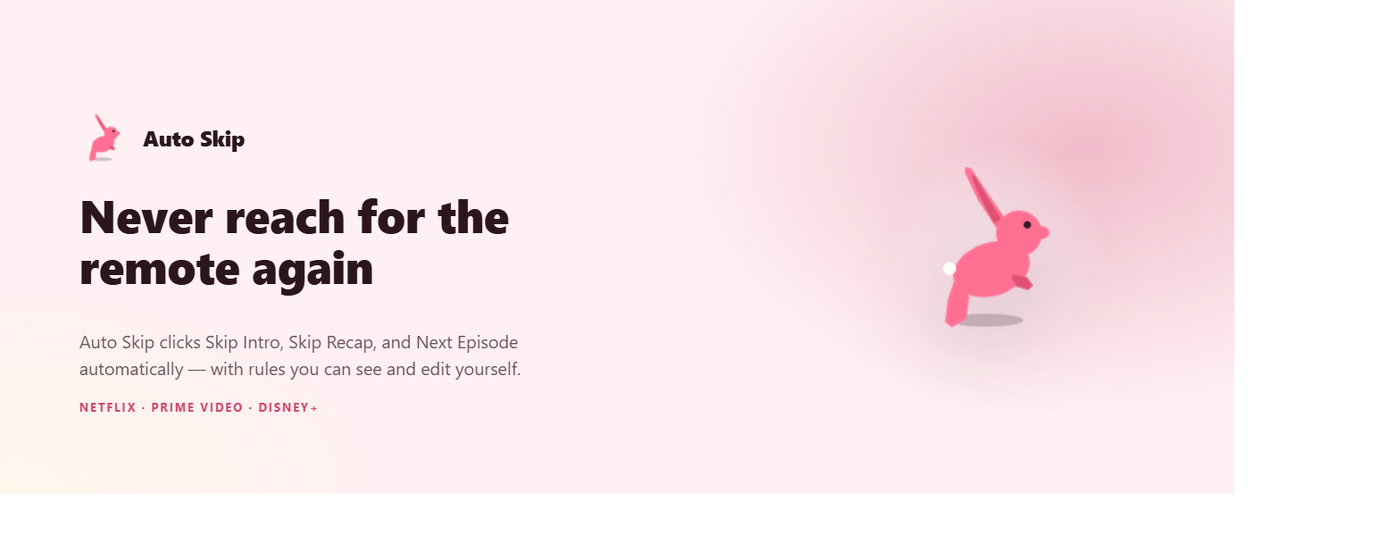
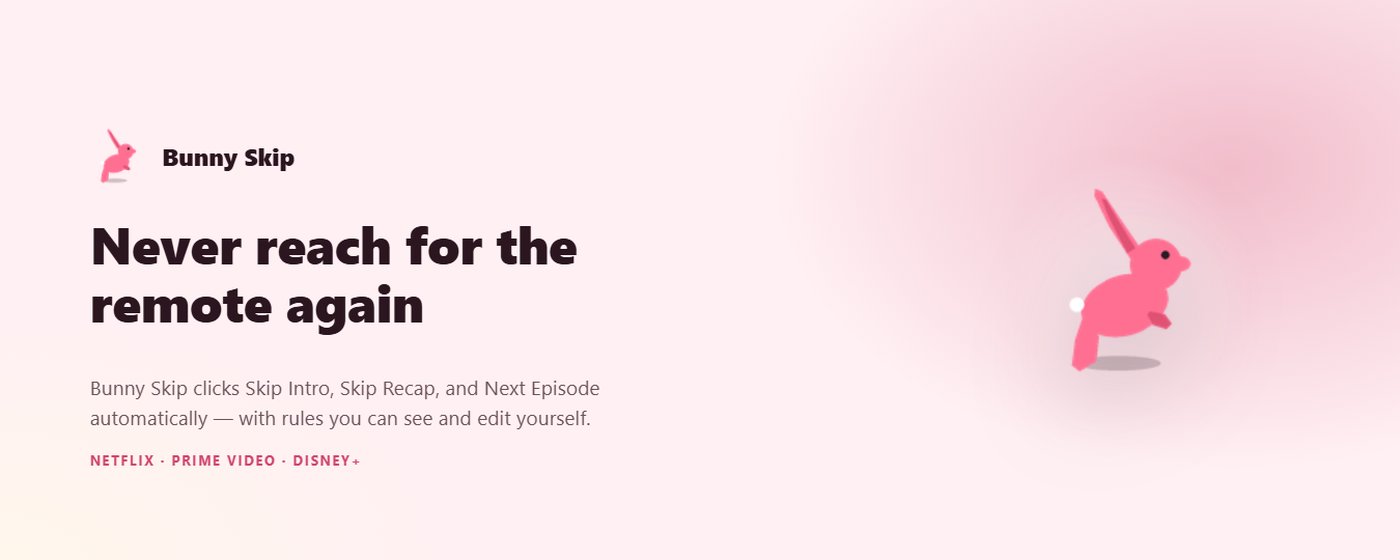
Rebrand extension from Auto Skip to Bunny Skip
Updates name references across manifest, docs, and UI, and
regenerates store assets to match the new name.

diff --git a/store-assets/popup-mock.html b/store-assets/popup-mock.html
@@ -2,7 +2,7 @@
 <html lang="en">
 <head>
   <meta charset="UTF-8" />
-  <title>Auto Skip</title>
+  <title>Bunny Skip</title>
   <link rel="stylesheet" href="../popup/popup.css" />
   <style>
     /* Screenshot-harness only: real popup.css sets body to a fixed 600x480
@@ -18,7 +18,7 @@
         <span class="brand-mark" aria-hidden="true">
           <img src="../icons/icon48.png" alt="" width="20" height="20" />
         </span>
-        <span class="brand-title">Auto Skip</span>
+        <span class="brand-title">Bunny Skip</span>
       </div>
 
       <div class="nav-list" role="tablist" aria-orientation="vertical">
@@ -234,7 +234,7 @@
 
         <div class="help-block">
           <h3 class="help-heading">Made by Julian Diaz</h3>
-          <p class="help-text">Hey, I'm Julian &mdash; an indie developer who got tired of clicking "Skip Intro" one too many times. Auto Skip is free and open source, built to just work and stay out of your way.</p>
+          <p class="help-text">Hey, I'm Julian &mdash; an indie developer who got tired of clicking "Skip Intro" one too many times. Bunny Skip is free and open source, built to just work and stay out of your way.</p>
         </div>
 
         <div class="about-links">

diff --git a/popup/popup.html b/popup/popup.html
@@ -2,7 +2,7 @@
 <html lang="en">
 <head>
   <meta charset="UTF-8" />
-  <title>Auto Skip</title>
+  <title>Bunny Skip</title>
   <link rel="stylesheet" href="popup.css" />
 </head>
 <body>
@@ -12,7 +12,7 @@
         <span class="brand-mark" aria-hidden="true">
           <img src="../icons/icon48.png" alt="" width="20" height="20" />
         </span>
-        <span class="brand-title">Auto Skip</span>
+        <span class="brand-title">Bunny Skip</span>
       </div>
 
       <div class="nav-list" role="tablist" aria-orientation="vertical">
@@ -228,7 +228,7 @@
 
         <div class="help-block">
           <h3 class="help-heading">Made by Julian Diaz</h3>
-          <p class="help-text">Hey, I'm Julian &mdash; an indie developer who got tired of clicking "Skip Intro" one too many times. Auto Skip is free and open source, built to just work and stay out of your way.</p>
+          <p class="help-text">Hey, I'm Julian &mdash; an indie developer who got tired of clicking "Skip Intro" one too many times. Bunny Skip is free and open source, built to just work and stay out of your way.</p>
         </div>
 
         <div class="about-links">

diff --git a/store-assets/screenshot-3-add-rule.html b/store-assets/screenshot-3-add-rule.html
@@ -88,9 +88,9 @@
 </head>
 <body>
 <div id="canvas">
-  <div class="eyebrow">AUTO SKIP</div>
+  <div class="eyebrow">BUNNY SKIP</div>
   <h1>Point, click, done</h1>
-  <p class="sub">No DevTools required. Click "Select the button to skip," then click the real button on the page — Auto Skip figures out the most reliable way to find it again.</p>
+  <p class="sub">No DevTools required. Click "Select the button to skip," then click the real button on the page — Bunny Skip figures out the most reliable way to find it again.</p>
   <ul class="features">
     <li><svg width="20" height="20" viewBox="0 0 24 24" fill="none" stroke="#d1466f" stroke-width="2.5" stroke-linecap="round" stroke-linejoin="round"><path d="M20 6L9 17l-5-5"/></svg> Auto-detects the most durable match</li>
     <li><svg width="20" height="20" viewBox="0 0 24 24" fill="none" stroke="#d1466f" stroke-width="2.5" stroke-linecap="round" stroke-linejoin="round"><path d="M20 6L9 17l-5-5"/></svg> Or turn on manual mode to pick from every candidate</li>

diff --git a/store-assets/screenshot-1-this-site.html b/store-assets/screenshot-1-this-site.html
@@ -103,9 +103,9 @@
 </head>
 <body>
 <div id="canvas">
-  <div class="eyebrow">AUTO SKIP</div>
+  <div class="eyebrow">BUNNY SKIP</div>
   <h1>Never reach for the remote again</h1>
-  <p class="sub">Auto Skip clicks Skip Intro, Skip Recap, and Next Episode automatically on Netflix, Prime Video, and Disney+.</p>
+  <p class="sub">Bunny Skip clicks Skip Intro, Skip Recap, and Next Episode automatically on Netflix, Prime Video, and Disney+.</p>
   <ul class="features">
     <li><svg width="20" height="20" viewBox="0 0 24 24" fill="none" stroke="#d1466f" stroke-width="2.5" stroke-linecap="round" stroke-linejoin="round"><path d="M20 6L9 17l-5-5"/></svg> Skip Intro, Skip Recap &amp; Next Episode — automatically</li>
     <li><svg width="20" height="20" viewBox="0 0 24 24" fill="none" stroke="#d1466f" stroke-width="2.5" stroke-linecap="round" stroke-linejoin="round"><path d="M20 6L9 17l-5-5"/></svg> Rules are editable data — no code, no DevTools</li>

diff --git a/background.js b/background.js
@@ -28,9 +28,9 @@ chrome.runtime.onInstalled.addListener(async (details) => {
     }));
 
     await RulesStore.saveRules(rulesWithIds);
-    console.debug('[auto-skip] Seeded default rules:', rulesWithIds.length);
+    console.debug('[bunny-skip] Seeded default rules:', rulesWithIds.length);
   } catch (err) {
-    console.error('[auto-skip] Failed to seed default rules:', err);
+    console.error('[bunny-skip] Failed to seed default rules:', err);
   }
 });
 
@@ -48,7 +48,7 @@ chrome.runtime.onMessage.addListener((message) => {
   }
   if (message.type === 'picker-result') {
     handlePickerResult(message).catch((err) => {
-      console.error('[auto-skip] Failed to auto-save picked rule:', err);
+      console.error('[bunny-skip] Failed to auto-save picked rule:', err);
     });
   } else if (message.type === 'picker-cancelled') {
     chrome.action.setBadgeText({ text: '' });

diff --git a/content/picker.js b/content/picker.js
@@ -10,12 +10,12 @@
 (function () {
   'use strict';
 
-  if (window.__autoSkipPickerActive) {
+  if (window.__bunnySkipPickerActive) {
     // Picker already active from a previous invocation (e.g. user double
     // clicked the "Pick element" button) — don't stack listeners.
     return;
   }
-  window.__autoSkipPickerActive = true;
+  window.__bunnySkipPickerActive = true;
 
   var HOVER_OUTLINE = '2px solid #d1466f';
   var HOVER_OUTLINE_OFFSET = '-2px';
@@ -183,7 +183,7 @@
     document.removeEventListener('click', onClick, true);
     document.removeEventListener('keydown', onKeyDown, true);
     restoreOutline();
-    window.__autoSkipPickerActive = false;
+    window.__bunnySkipPickerActive = false;
   }
 
   function onClick(event) {

diff --git a/store-assets/promo-marquee-1400x560.html b/store-assets/promo-marquee-1400x560.html
@@ -45,10 +45,10 @@
 <div id="canvas">
   <div class="lockup">
     <img src="../icons/icon48.png" alt="" />
-    <span>Auto Skip</span>
+    <span>Bunny Skip</span>
   </div>
   <h1>Never reach for the remote again</h1>
-  <p>Auto Skip clicks Skip Intro, Skip Recap, and Next Episode automatically — with rules you can see and edit yourself.</p>
+  <p>Bunny Skip clicks Skip Intro, Skip Recap, and Next Episode automatically — with rules you can see and edit yourself.</p>
   <div class="sites">Netflix &middot; Prime Video &middot; Disney+</div>
   <div class="glow"><img src="../icons/icon128.png" alt="" /></div>
 </div>

diff --git a/store-assets/screenshot-2-other-sites.html b/store-assets/screenshot-2-other-sites.html
@@ -88,7 +88,7 @@
 </head>
 <body>
 <div id="canvas">
-  <div class="eyebrow">AUTO SKIP</div>
+  <div class="eyebrow">BUNNY SKIP</div>
   <h1>One popup, every streaming site</h1>
   <p class="sub">Switch to "Other Sites" to see and manage rules for every site you've set up — not just the tab you're on.</p>
   <ul class="features">

diff --git a/store-assets/promo-small-440x280.html b/store-assets/promo-small-440x280.html
@@ -33,7 +33,7 @@
 </head>
 <body>
   <img class="icon" src="../icons/icon128.png" alt="" />
-  <h1>Auto Skip</h1>
+  <h1>Bunny Skip</h1>
   <p>Clicks Skip Intro &amp; Next Episode automatically</p>
   <div class="sites">Netflix &middot; Prime Video &middot; Disney+</div>
 </body>

diff --git a/content/engine.js b/content/engine.js
@@ -18,7 +18,7 @@ const RESCAN_DEBOUNCE_MS = 200;
 
 function log(...args) {
   if (DEBUG) {
-    console.debug('[auto-skip]', ...args);
+    console.debug('[bunny-skip]', ...args);
   }
 }
 

diff --git a/PRIVACY_POLICY.md b/PRIVACY_POLICY.md
@@ -1,22 +1,22 @@
-# Privacy Policy for Auto Skip
+# Privacy Policy for Bunny Skip
 
 **Last updated:** 2026-08-14
 
-Auto Skip is a browser extension that automatically clicks "Skip Intro," "Skip Recap," and "Next Episode" buttons on supported streaming sites (Netflix, Prime Video, Disney+).
+Bunny Skip is a browser extension that automatically clicks "Skip Intro," "Skip Recap," and "Next Episode" buttons on supported streaming sites (Netflix, Prime Video, Disney+).
 
 ## Data collection
 
-Auto Skip does not collect, transmit, sell, or share any user data. Specifically:
+Bunny Skip does not collect, transmit, sell, or share any user data. Specifically:
 
 - **No analytics or telemetry.** The extension does not use any tracking, analytics, or crash-reporting service.
-- **No network requests.** Auto Skip never sends data to any server. The only `fetch` call in the code loads `seed-rules.json`, a file bundled inside the extension package itself (via `chrome.runtime.getURL`) — this never leaves the browser.
+- **No network requests.** Bunny Skip never sends data to any server. The only `fetch` call in the code loads `seed-rules.json`, a file bundled inside the extension package itself (via `chrome.runtime.getURL`) — this never leaves the browser.
 - **No remote code execution.** All code that runs is packaged inside the extension at install time. Nothing is downloaded or `eval`'d at runtime.
 
 ## Data stored locally
 
 The extension stores one thing, entirely on your device, using the `chrome.storage.local` API:
 
-- **Skip rules** — the list of buttons you've configured Auto Skip to click (e.g., "Skip Intro" on Netflix), including any rules you create yourself with the element picker.
+- **Skip rules** — the list of buttons you've configured Bunny Skip to click (e.g., "Skip Intro" on Netflix), including any rules you create yourself with the element picker.
 
 This data:
 - Never leaves your device.
@@ -25,20 +25,20 @@ This data:
 
 ## Permissions
 
-| Permission | Why Auto Skip needs it |
+| Permission | Why Bunny Skip needs it |
 |---|---|
 | `storage` | Save your skip rules locally in `chrome.storage.local`. |
 | `activeTab` | Let the popup's element picker inspect the page you're currently viewing, only when you invoke it. |
 | `scripting` | Inject the element-picker script on demand when you click "Pick element on page." |
-| Host permissions for `netflix.com`, `primevideo.com`, `disneyplus.com` | Run the content script that watches for and clicks Skip Intro / Skip Recap / Next Episode buttons on those sites. Auto Skip cannot see or run on any other site. |
+| Host permissions for `netflix.com`, `primevideo.com`, `disneyplus.com` | Run the content script that watches for and clicks Skip Intro / Skip Recap / Next Episode buttons on those sites. Bunny Skip cannot see or run on any other site. |
 
 ## Third parties
 
-Auto Skip does not integrate with, or share data with, any third-party service, advertiser, or analytics provider.
+Bunny Skip does not integrate with, or share data with, any third-party service, advertiser, or analytics provider.
 
 ## Changes to this policy
 
-If Auto Skip's data practices ever change, this policy will be updated and the extension's Chrome Web Store listing will reflect the update date above.
+If Bunny Skip's data practices ever change, this policy will be updated and the extension's Chrome Web Store listing will reflect the update date above.
 
 ## Contact
 

diff --git a/README.md b/README.md
@@ -1,4 +1,4 @@
-# Auto Skip
+# Bunny Skip
 
 A Chrome extension (Manifest V3) that automatically clicks "Skip Intro," "Skip Recap," and "Next Episode" buttons on streaming sites (Netflix, Prime Video, Disney+). Rules that describe which button to click are stored as **data** — never as hardcoded per-site JS — so a broken rule can be fixed by picking the button again, no DevTools required.
 
@@ -17,7 +17,7 @@ It has no backend and makes no network calls beyond loading the pages you alread
 1. Open `chrome://extensions`.
 2. Enable **Developer mode** (top-right toggle).
 3. Click **Load unpacked**.
-4. Select this folder (`auto-skip-extension`).
+4. Select this folder (`bunny-skip-extension`).
 5. Confirm it installs with no errors and the toolbar icon appears.
 
 On first install, three Netflix rules are seeded automatically (Skip Intro, Skip Recap, Next Episode) — see [Seed rules](#seed-rules) below.
